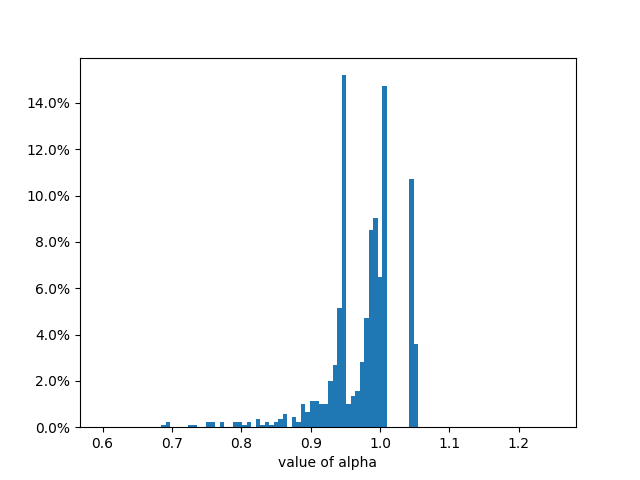
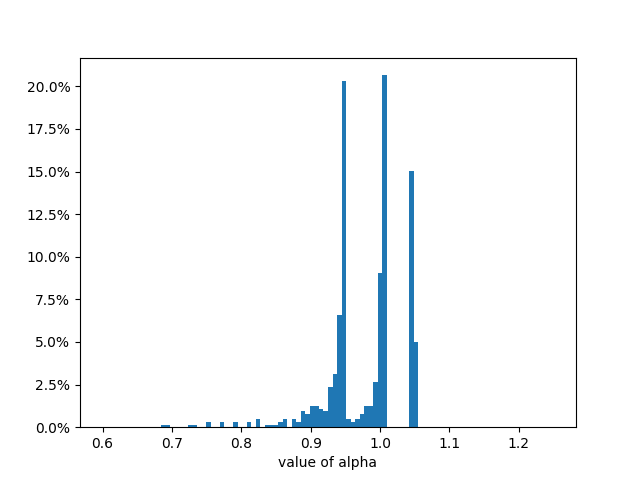
update

diff --git a/Ex3_square_harmonic_adaptive/check_dist_n2.py b/Ex3_square_harmonic_adaptive/check_dist_n2.py
@@ -54,7 +54,7 @@ uu_all_list, xl_list,x_list=get_uu(uh,line_list,dy_list,N,l,n)
 uu_list,xl_list,alpha_list, c_list,std_list,pt_xlist,pt_ylist=get_alpha(uu_all_list,x_list,xl_list,dy_list)
 sub_alpha=[]
 for i in range(len(pt_xlist)):
-   if pt_xlist[i]<=2./3. and pt_xlist[i]>=1./3.:
+   if pt_ylist[i]<=-1./3. :
       sub_alpha.append(alpha_list[i])
 
 
